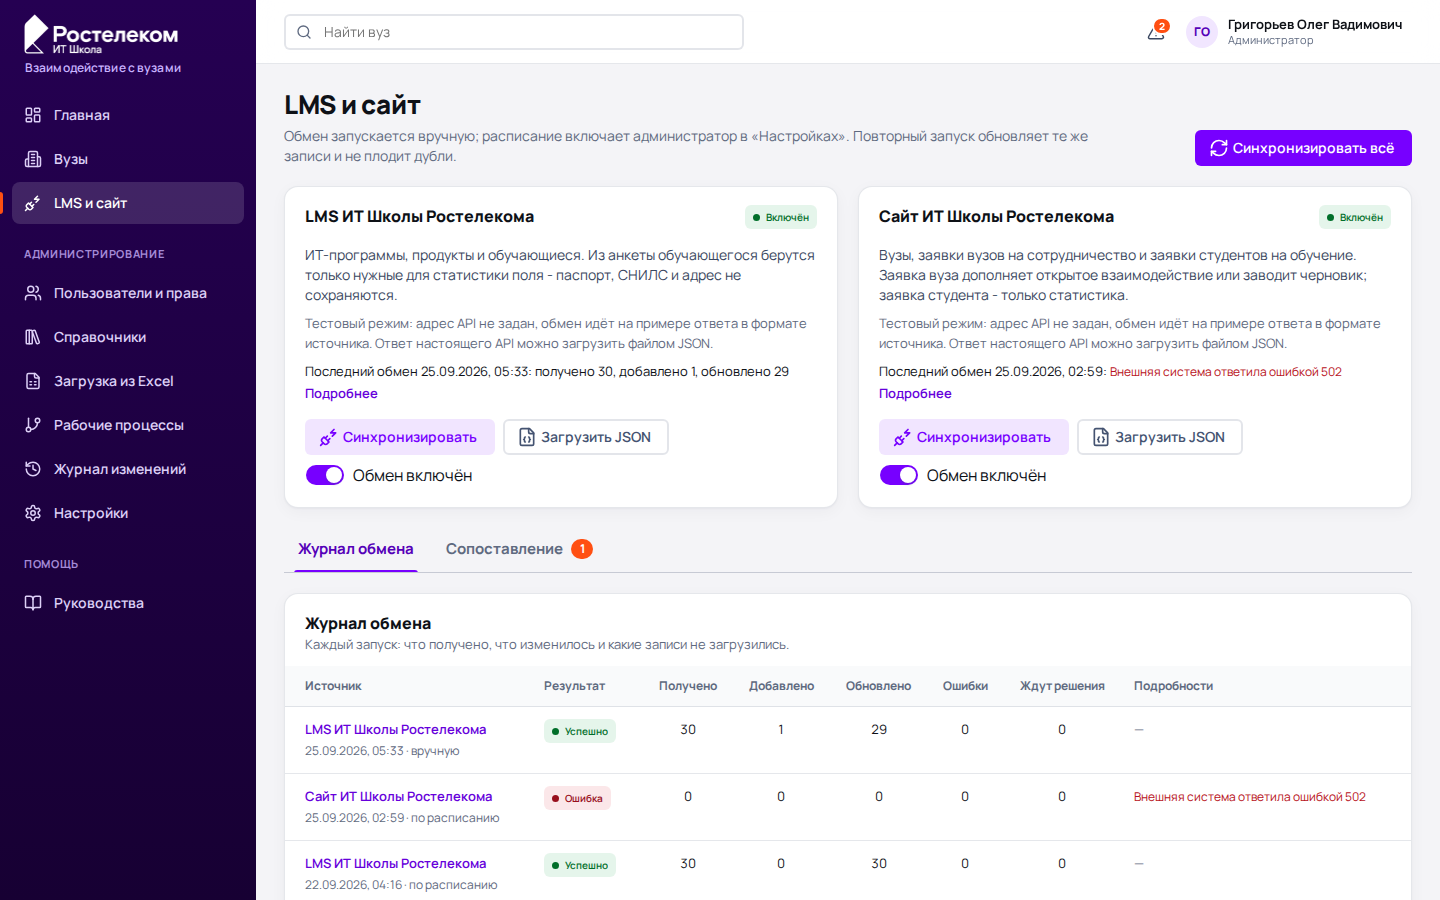
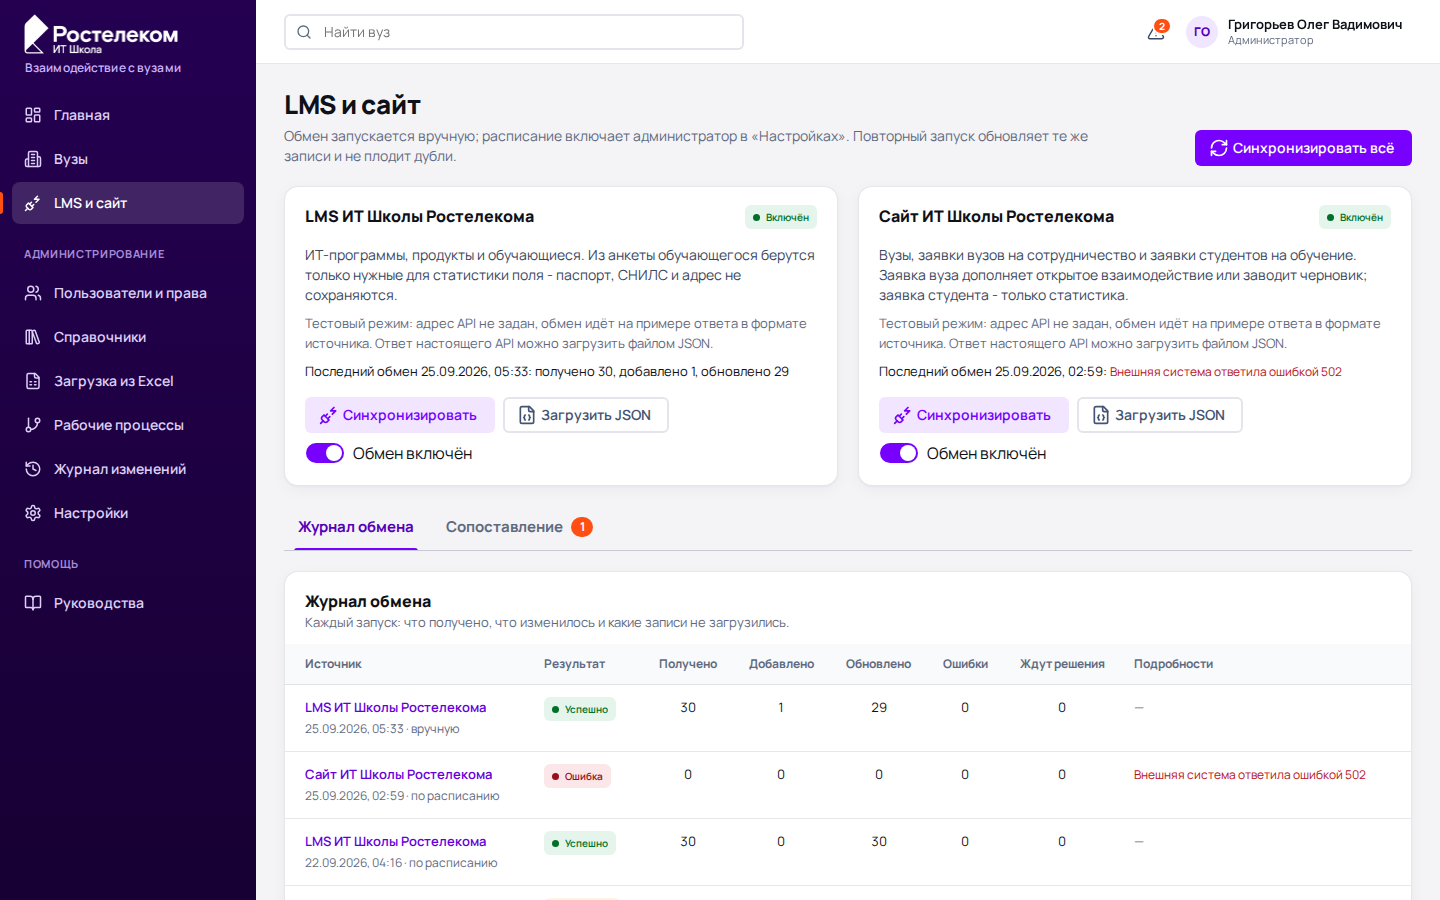
fix(web): «Подробнее» - только если текст обрезан, выравнивание ошибок
- Карточки «LMS и сайт»: «Подробнее» под строкой последнего обмена
  появляется, только если текст не поместился в две строки. Поместится
  ли он, зависит от ширины карточки - это проверяется и при изменении
  размера окна. Короткую строку ссылка только повторяла бы, а все
  запуски с подробностями - в журнале обмена ниже.
- Карточка запуска: строка «Ошибок нет» стоит на одной линии
  с заголовком «Ошибки по записям» и с обычными полями, как в блоке
  «Пояснения»; список ошибок по-прежнему во всю ширину карточки.
- Снимки экранов руководств с этим разделом пересняты.

diff --git a/frontend/src/pages/IntegrationsPage.tsx b/frontend/src/pages/IntegrationsPage.tsx
@@ -16,7 +16,7 @@
  */
 import { useQuery } from "@tanstack/react-query";
 import { Ban, FileJson, GitMerge, PlugZap, Plus, RefreshCw } from "lucide-react";
-import { useState } from "react";
+import { useLayoutEffect, useRef, useState } from "react";
 import { useSearchParams } from "react-router-dom";
 import {
   createFromMapping,
@@ -78,6 +78,42 @@ function afterSync() {
   void queryClient.invalidateQueries({ queryKey: ["catalog"] });
 }
 
+/**
+ * Последний обмен в карточке источника - не длиннее двух строк. «Подробнее»
+ * появляется, только если текст не поместился: полный текст открывается
+ * в карточке запуска. Короткую строку ссылка бы только повторяла, а все
+ * запуски с подробностями - в журнале ниже.
+ */
+function LastRun({ run, source, onMore }: { run: IntegrationRun; source: string; onMore: () => void }) {
+  const ref = useRef<HTMLParagraphElement>(null);
+  const [clipped, setClipped] = useState(false);
+
+  // Поместится ли текст, зависит от ширины карточки - проверяем при каждом её изменении.
+  useLayoutEffect(() => {
+    const node = ref.current;
+    if (!node) return;
+    const check = () => setClipped(node.scrollHeight > node.clientHeight + 1);
+    check();
+    const observer = new ResizeObserver(check);
+    observer.observe(node);
+    return () => observer.disconnect();
+  }, [run]);
+
+  return (
+    <div className="source-card__last">
+      <p ref={ref} className="source-card__summary">
+        Последний обмен {formatDateTime(run.started_at)}:{" "}
+        {run.status === "failed" ? <span className="field__error">{run.error_message}</span> : describeRun(run)}
+      </p>
+      {clipped && (
+        <button type="button" className="link-btn" aria-label={`Подробнее о последнем обмене: ${source}`} onClick={onMore}>
+          Подробнее
+        </button>
+      )}
+    </div>
+  );
+}
+
 /** Запуск целиком: счётчики, пояснения и ошибки по отдельным записям. */
 function RunDrawer({ runId, onClose }: { runId: string | null; onClose: () => void }) {
   const label = useLabel();
@@ -117,11 +153,11 @@ function RunDrawer({ runId, onClose }: { runId: string | null; onClose: () => vo
               </p>
             </Card>
           )}
-          <Card title="Ошибки по записям" flush>
+          {/* Список ошибок - во всю ширину карточки, как любой список; строка
+              «Ошибок нет» - с обычными полями, на одной линии с заголовком. */}
+          <Card title="Ошибки по записям" flush={(run.data.errors || []).length > 0}>
             {(run.data.errors || []).length === 0 ? (
-              <p className="muted" style={{ padding: 16 }}>
-                Ошибок нет.
-              </p>
+              <p className="muted">Ошибок нет.</p>
             ) : (
               <div className="list">
                 {(run.data.errors || []).map((item) => (
@@ -402,26 +438,7 @@ export default function IntegrationsPage() {
                       ? "Тестовый режим: адрес API не задан, обмен идёт на примере ответа в формате источника. Ответ настоящего API можно загрузить файлом JSON."
                       : `Адрес API: ${source.base_url}`}
                   </p>
-                  {last && (
-                    <div className="source-card__last">
-                      <p className="source-card__summary">
-                        Последний обмен {formatDateTime(last.started_at)}:{" "}
-                        {last.status === "failed" ? (
-                          <span className="field__error">{last.error_message}</span>
-                        ) : (
-                          describeRun(last)
-                        )}
-                      </p>
-                      <button
-                        type="button"
-                        className="link-btn"
-                        aria-label={`Подробнее о последнем обмене: ${source.name}`}
-                        onClick={() => setRunId(last.id)}
-                      >
-                        Подробнее
-                      </button>
-                    </div>
-                  )}
+                  {last && <LastRun run={last} source={source.name} onMore={() => setRunId(last.id)} />}
                   <div className="row source-card__actions">
                     {can("sync_integrations") && (
                       <>
